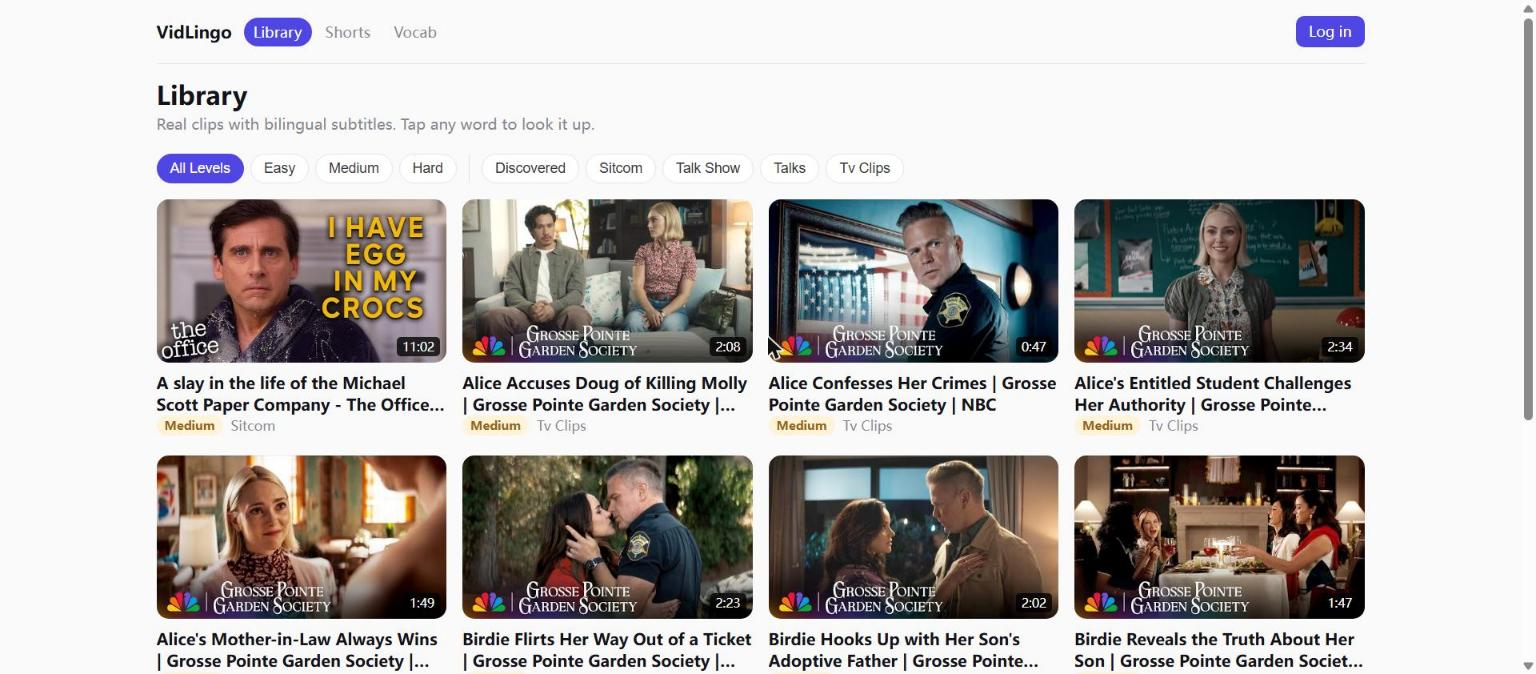
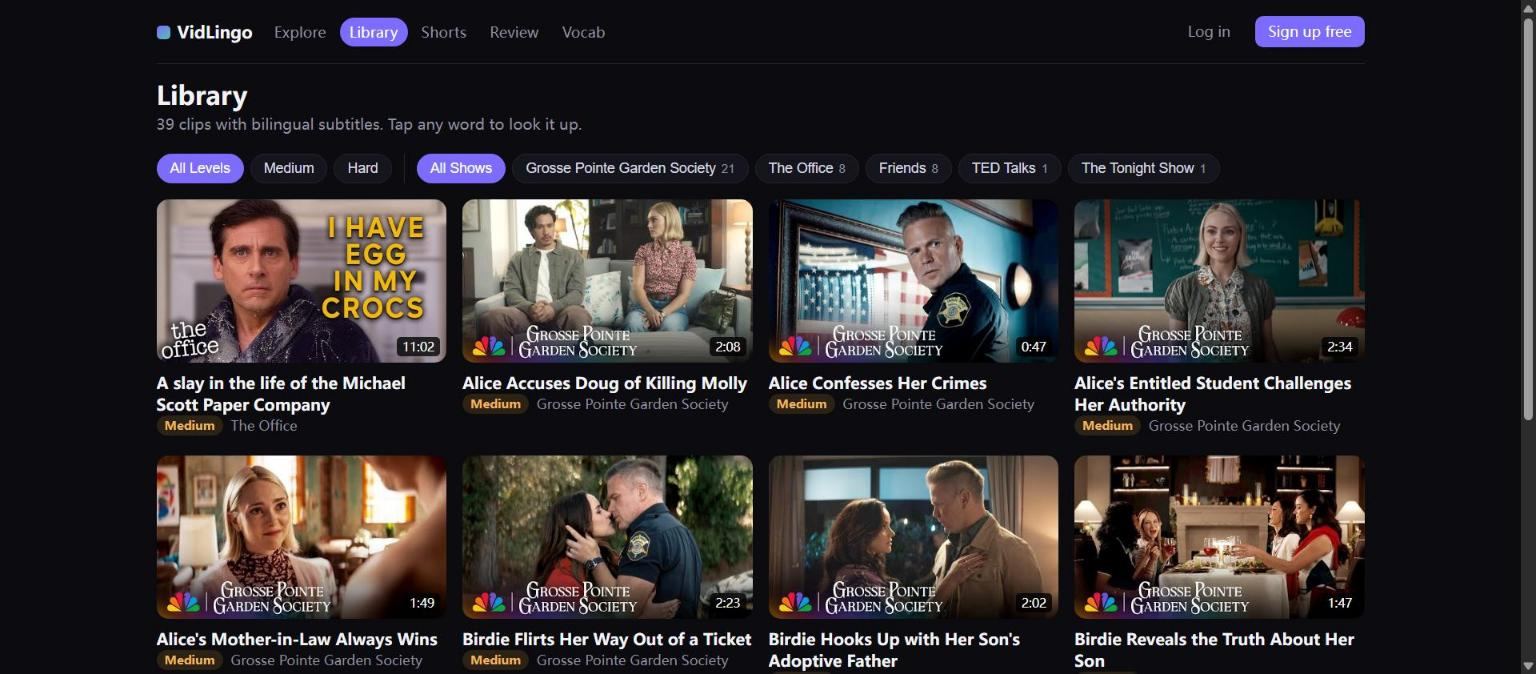
docs: use the current dark UI for the README screenshots
The deployed site was still serving an older light build; these are
taken against the latest local build (Explore, Library, Reader).

diff --git a/README.md b/README.md
@@ -37,9 +37,11 @@ Design docs: [`PRD_v1.md`](PRD_v1.md),
 [`architecture.md`](architecture.md), [`tasks.md`](tasks.md).
 
 ## Screenshots
+![Explore — the landing page: a TED hero, how-it-works demo, and shows to browse](assets/screenshots/explore.jpg)
+
 | Library | Reader |
 | --- | --- |
-| ![Library — browse real clips by level and category](assets/screenshots/library.jpg) | ![Reader — bilingual, tappable transcript synced to the video](assets/screenshots/reader.jpg) |
+| ![Library — browse real clips by level and show](assets/screenshots/library.jpg) | ![Reader — bilingual, tappable transcript synced to the video](assets/screenshots/reader.jpg) |
 
 ## Repo layout
 ```
